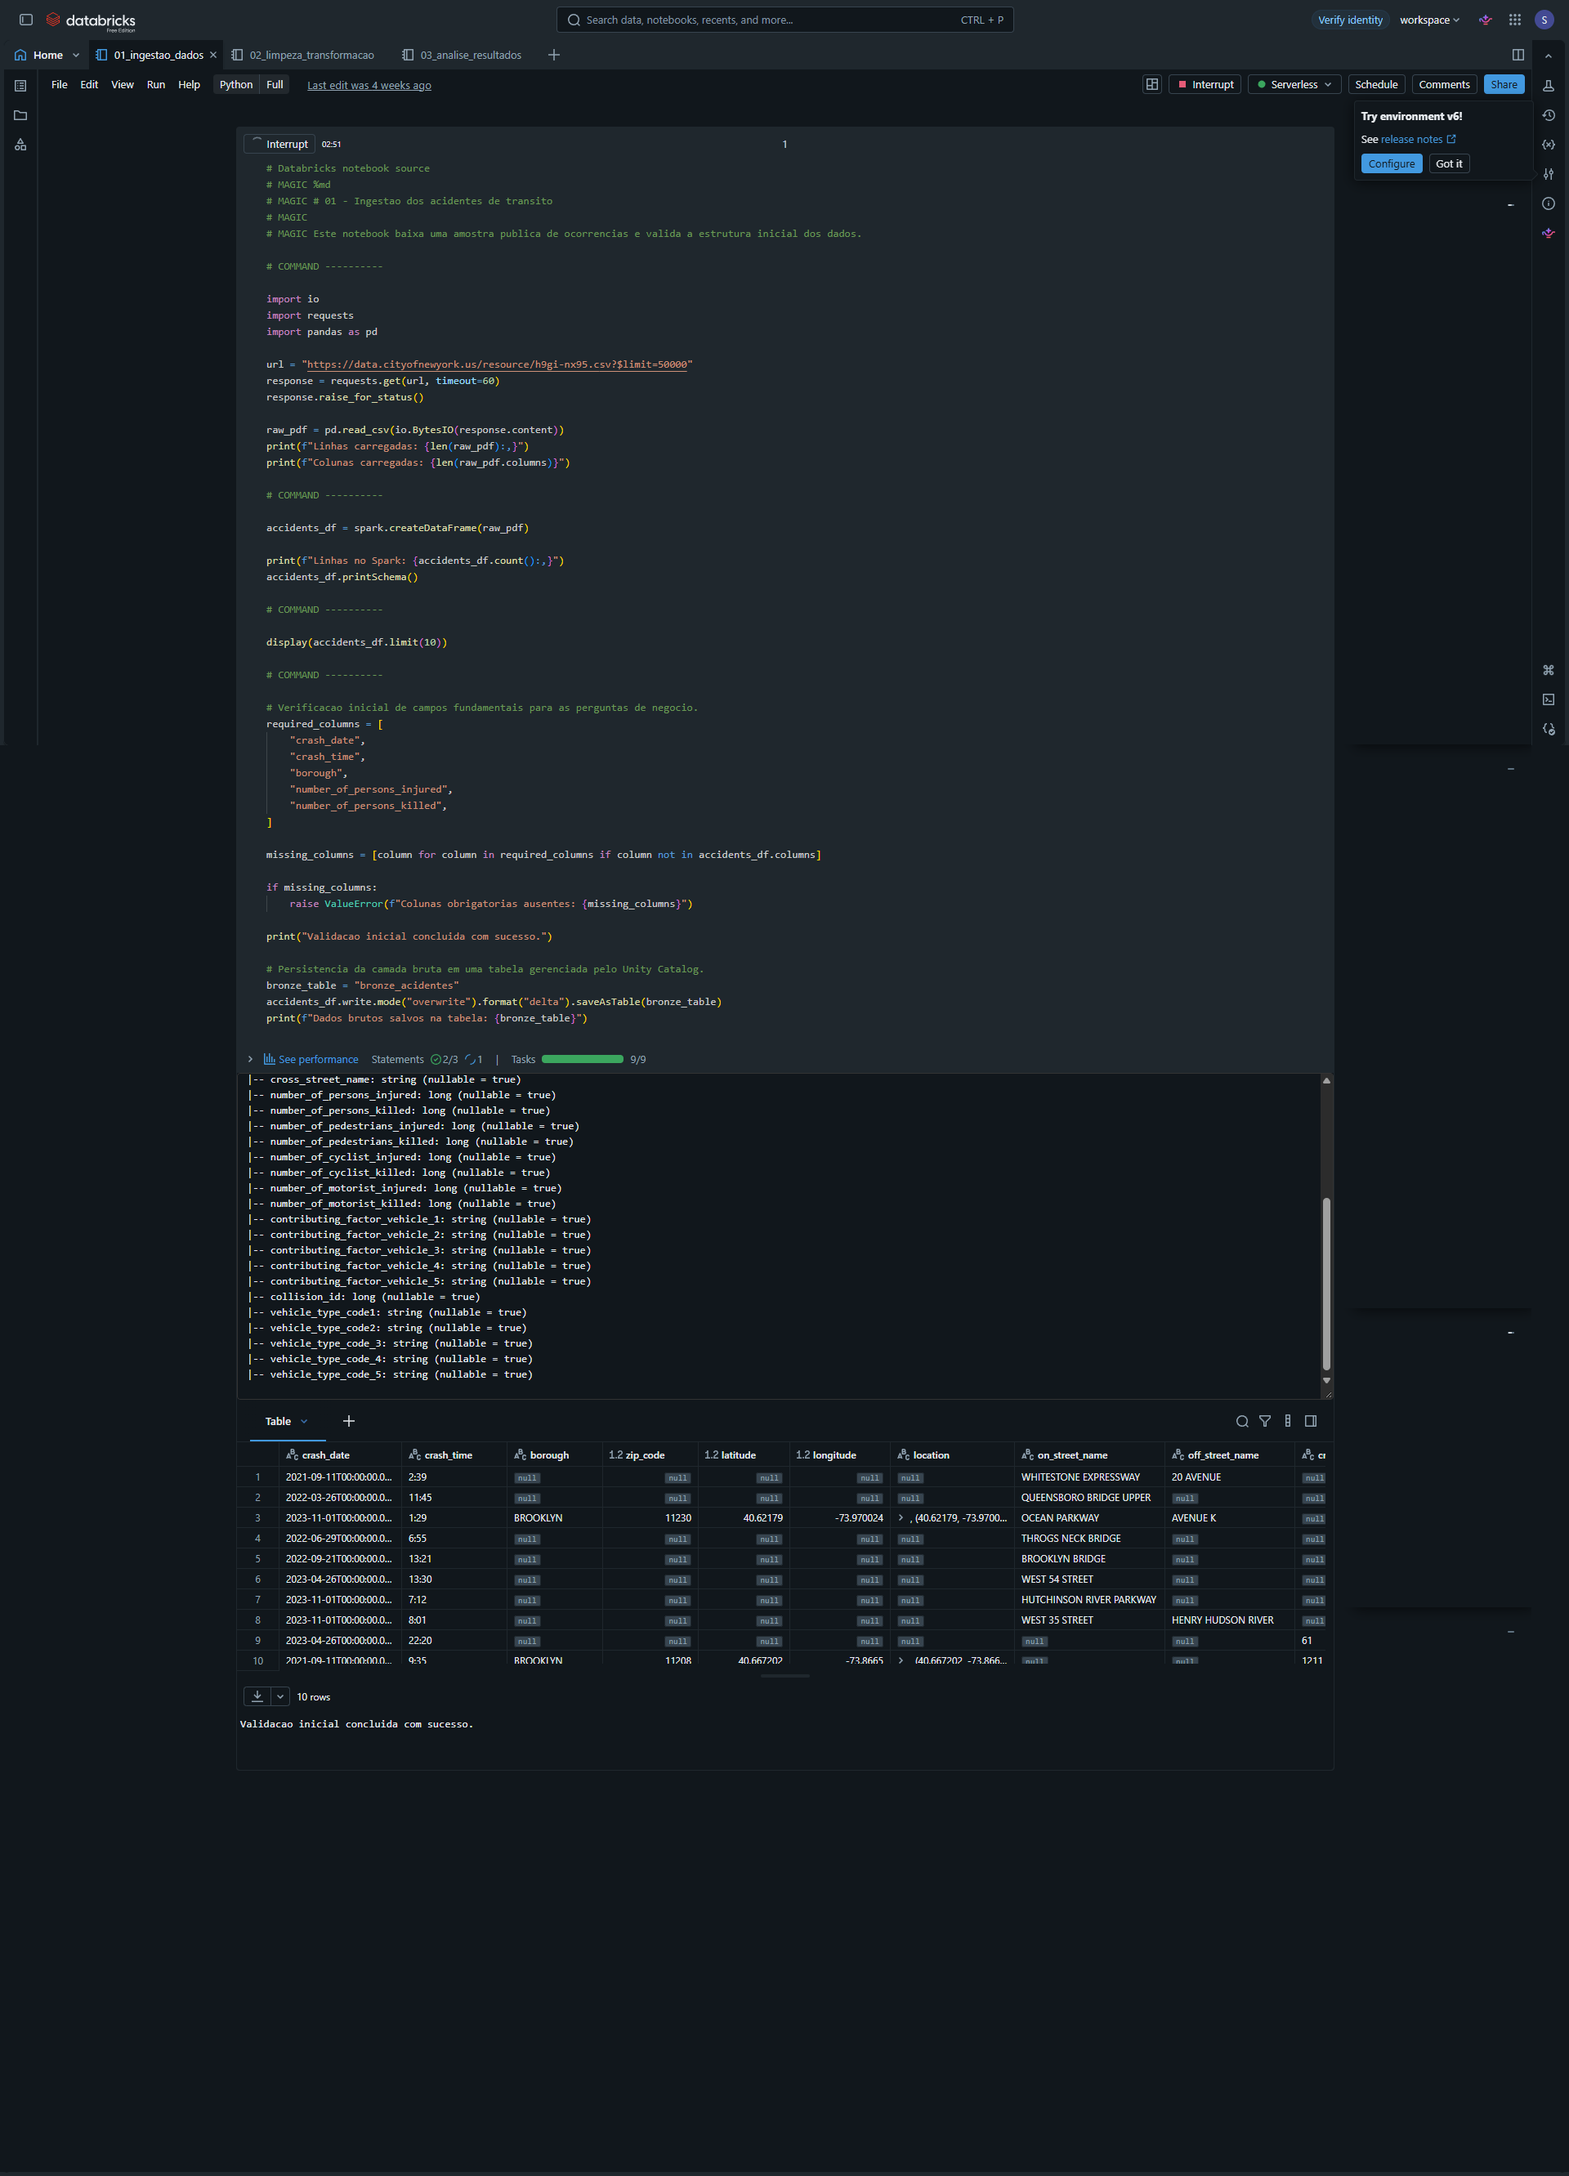
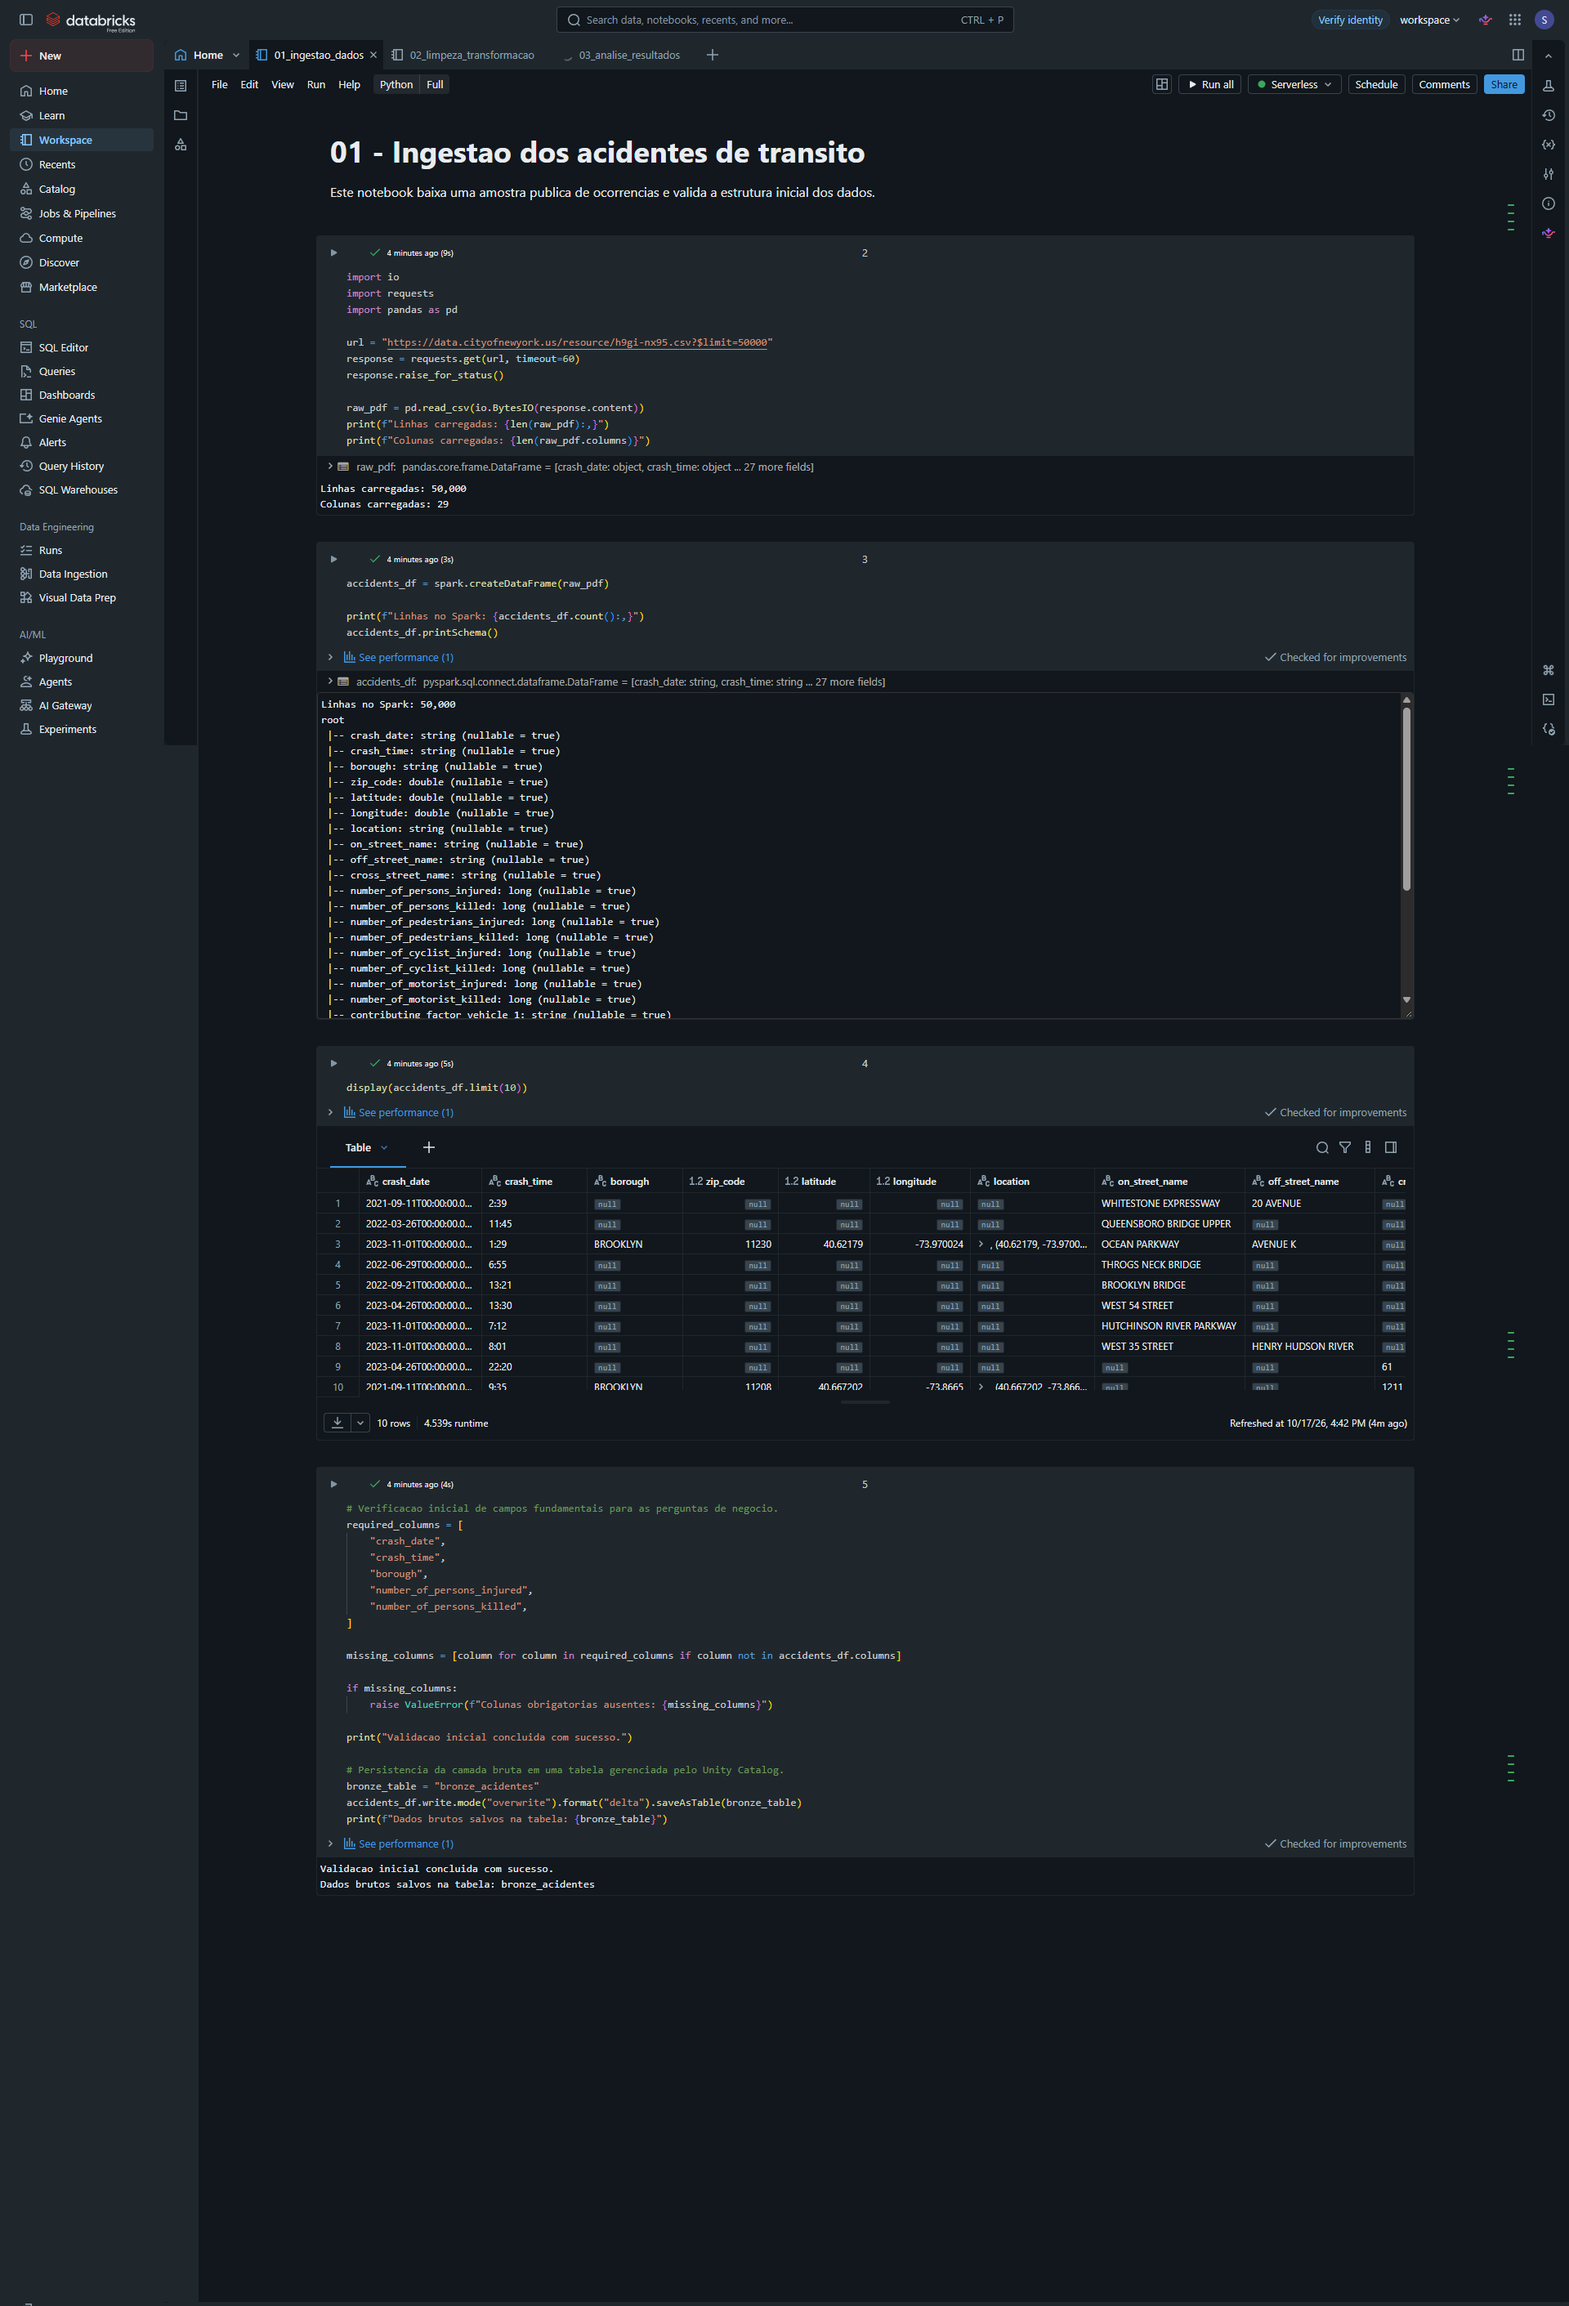
Atualizar evidencias do Databricks no README

diff --git a/README.md b/README.md
@@ -32,7 +32,7 @@ O proprio NYPD informa que os registros sao preliminares e podem ser atualizados
 7. Analise dos fatores contribuintes registrados para os veiculos.
 8. Persistencia dos resultados na camada gold.
 
-As tabelas Delta sao gerenciadas pelo Unity Catalog no catalogo e schema ativos durante a execucao. Os notebooks usam nomes nao qualificados (`saveAsTable("nome")`), portanto o catalogo/schema efetivo deve ser registrado a partir do workspace com `SELECT current_catalog(), current_schema()`.
+As tabelas Delta sao gerenciadas pelo Unity Catalog. Na execucao registrada nas evidencias, o catalogo ativo foi `workspace` e o schema foi `default`; as tabelas foram listadas por `SHOW TABLES` nesse contexto. Os notebooks usam nomes nao qualificados (`saveAsTable("nome")`), que resolvem para `workspace.default.nome` nessa execucao.
 
 - `bronze_acidentes`: dados brutos validados.
 - `silver_acidentes`: dados limpos e enriquecidos.
@@ -66,7 +66,7 @@ O notebook tambem exibe a lista dos 20 casos de maior gravidade. Sao **cinco tab
 | `gold_acidentes_por_ano` | Gold | `ano`, `total_acidentes`, `total_feridos`, `total_mortos`, `gravidade_media`. |
 | `gold_acidentes_por_fator` | Gold | `fator_contribuinte`, `total_registros`, `gravidade_media`, `total_feridos`, `total_mortos`. |
 
-O nome totalmente qualificado e o local fisico das tabelas dependem do catalogo/schema ativos no workspace. Para registrar o catalogo usado, execute no Databricks:
+O nome totalmente qualificado das tabelas na execucao registrada e `workspace.default.<nome_da_tabela>`. Para verificar o catalogo/schema em outra execucao, use:
 
 ```sql
 SELECT current_catalog() AS catalogo, current_schema() AS schema;
@@ -77,7 +77,7 @@ SHOW TABLES;
 
 As regras implementadas incluem validacao das colunas obrigatorias na Bronze, conversao da data e horario, substituicao de borough ausente por `NAO INFORMADA`, preenchimento de feridos/mortos ausentes com zero e derivacao de gravidade (`feridos + 10 * mortos`). O notebook 03 verifica a quantidade de linhas e valores nulos em data, regiao e gravidade.
 
-Uma execucao anterior reportou 50.000 linhas e zero nulos para esses tres campos. A verificacao de datas foi corrigida depois: anteriormente a tabela era filtrada para remover datas nulas antes da contagem, o que poderia mascarar valores invalidos. **Reexecute o notebook 03 com a versao atual antes de tratar o zero de datas nulas como resultado confirmado** e anexe a captura da execucao.
+Na execucao registrada em 17/10/2026 foram processadas 50.000 linhas; a verificacao retornou zero datas nulas, zero regioes nulas e zero gravidades nulas. A verificacao de datas foi corrigida para contar a tabela Silver completa, sem filtrar previamente datas nulas.
 
 Os nulos de regiao e de feridos/mortos sao convertidos para marcadores/zeros; isso permite executar as agregacoes, mas nao recupera a informacao original. A quantidade original de regioes ausentes e apresentada separadamente nos resultados.
 
@@ -152,29 +152,29 @@ Se o projeto fosse ampliado, eu registraria o catalogo/schema totalmente qualifi
 
 ## Evidencias de execucao no Databricks
 
-As capturas abaixo foram feitas no workspace Databricks e mostram codigo, resultados e tabelas da execucao. O link do workspace pode exigir autenticacao; por isso as imagens ficam no repositorio para consulta sem acesso ao workspace.
+As capturas abaixo foram feitas no workspace Databricks em 17/10/2026 e mostram codigo, resultados e tabelas da execucao. O link do workspace pode exigir autenticacao; por isso as imagens ficam no repositorio para consulta sem acesso ao workspace.
 
 ### 01 - Ingestao
 
 ![Execucao do notebook de ingestao no Databricks](evidencias/01_ingestao_dados.png)
 
-**Ressalva:** nesta captura o controle superior mostra `Interrupt`, e a saida visivel nao confirma a mensagem final de persistencia de `bronze_acidentes`. Para comprovar conclusivamente a conclusao da ingestao, atualize esta imagem apos uma execucao completa que mostre a mensagem `Dados brutos salvos na tabela: bronze_acidentes`.
+Esta captura mostra a carga de 50.000 linhas e 29 colunas, a validacao dos campos e a confirmacao `Dados brutos salvos na tabela: bronze_acidentes`.
 
 ### 02 - Limpeza e transformacao
 
 ![Execucao do notebook de limpeza e transformacao no Databricks](evidencias/02_limpeza_transformacao.png)
 
-A captura mostra a tabela `silver_acidentes`, os cinco campos de fatores contribuintes e a mensagem de gravacao com 50.000 linhas.
+A captura mostra os cinco campos de fatores contribuintes, a tabela `silver_acidentes` e a confirmacao de gravacao com 50.000 linhas.
 
 ### 03 - Analise dos resultados
 
 ![Execucao do notebook de analise no Databricks](evidencias/03_analise_resultados.png)
 
-A captura mostra as analises, as cinco tabelas Gold e os controles de qualidade. **Ela foi feita antes da correcao da contagem de datas nulas**: o codigo visivel filtra `data_acidente` nula antes de calcular esse controle. Portanto, ela e evidencia da execucao daquela versao, mas nao comprova a verificacao corrigida. Reexecute a versao atual do notebook 03 e substitua esta captura para comprovar o controle sem esse filtro.
+A captura mostra o catalogo `workspace`, schema `default`, as tabelas listadas, as analises, as cinco tabelas Gold salvas e os controles de qualidade. O codigo verifica `datas_nulas` na Silver completa, sem filtrar as datas antes da contagem. Os tres controles apresentados retornaram zero.
 
-As imagens sao evidencias complementares; a verificacao final do catalogo deve incluir tambem o resultado de `current_catalog()`, `current_schema()` e `SHOW TABLES` no Databricks.
+As imagens sao evidencias complementares da execucao na plataforma cloud. O notebook 03 registra o catalogo/schema e lista as tabelas por `SHOW TABLES`.
 
-Os CSVs registrados correspondem a coleta de 22/09/2026, enquanto o print 03 mostra uma execucao posterior, em 17/10/2026. Como a chamada da API usa `$limit=50000` sem ordenacao explicita, as amostras podem variar entre execucoes; por exemplo, sexta-feira aparece com 7.643 registros no CSV e 7.644 na captura. Para uma entrega com numeros perfeitamente consistentes, exporte novamente os CSVs a partir da mesma execucao usada nas capturas e atualize as conclusoes acima.
+Os CSVs correspondem a coleta de 22/09/2026 e as capturas mostram a execucao de 17/10/2026. Como a API usa `$limit=50000` sem ordenacao explicita, alguns totais podem variar entre coletas; por exemplo, `Unsafe Speed` aparece com 2.124 registros no CSV e 2.127 na captura. Para comparar todos os numeros diretamente, exporte os CSVs a partir da mesma execucao das capturas.
 
 ## Ambiente
 
